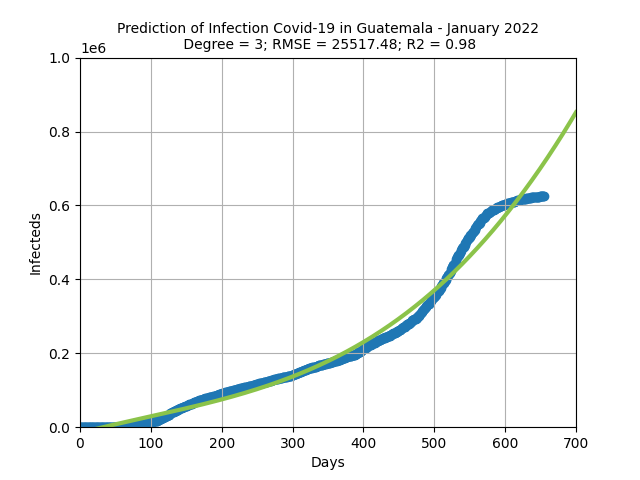
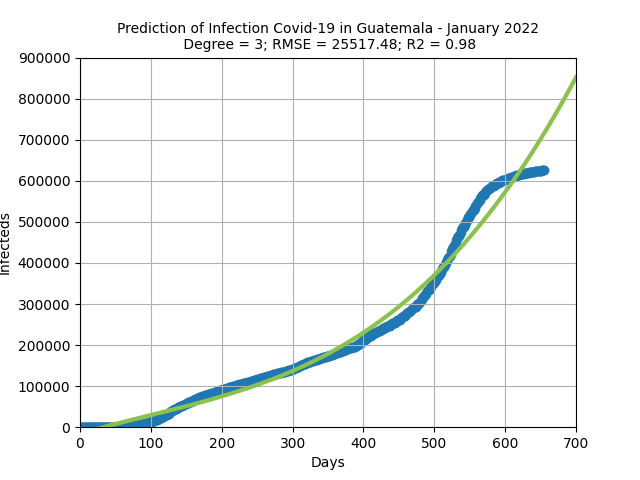
Proyecto 1 Prediccion Covid19

diff --git a/[IA1]Proyecto1_201504284/Covid_Prediction.py b/[IA1]Proyecto1_201504284/Covid_Prediction.py
@@ -33,7 +33,7 @@ y_new = model.predict(x_new_transform)
 plt.plot(x_new, y_new, color='#8BC34A', linewidth=3)
 plt.grid()
 plt.xlim(x_new_min,x_new_max)
-plt.ylim(0,1000000)
+plt.ylim(0,900000)
 title = 'Degree = {}; RMSE = {}; R2 = {}'.format(nb_degree, round(rmse,2),
 round(r2,2))
 plt.title("Prediction of Infection Covid-19 in Guatemala - January 2022\n " + title,fontsize=10)
